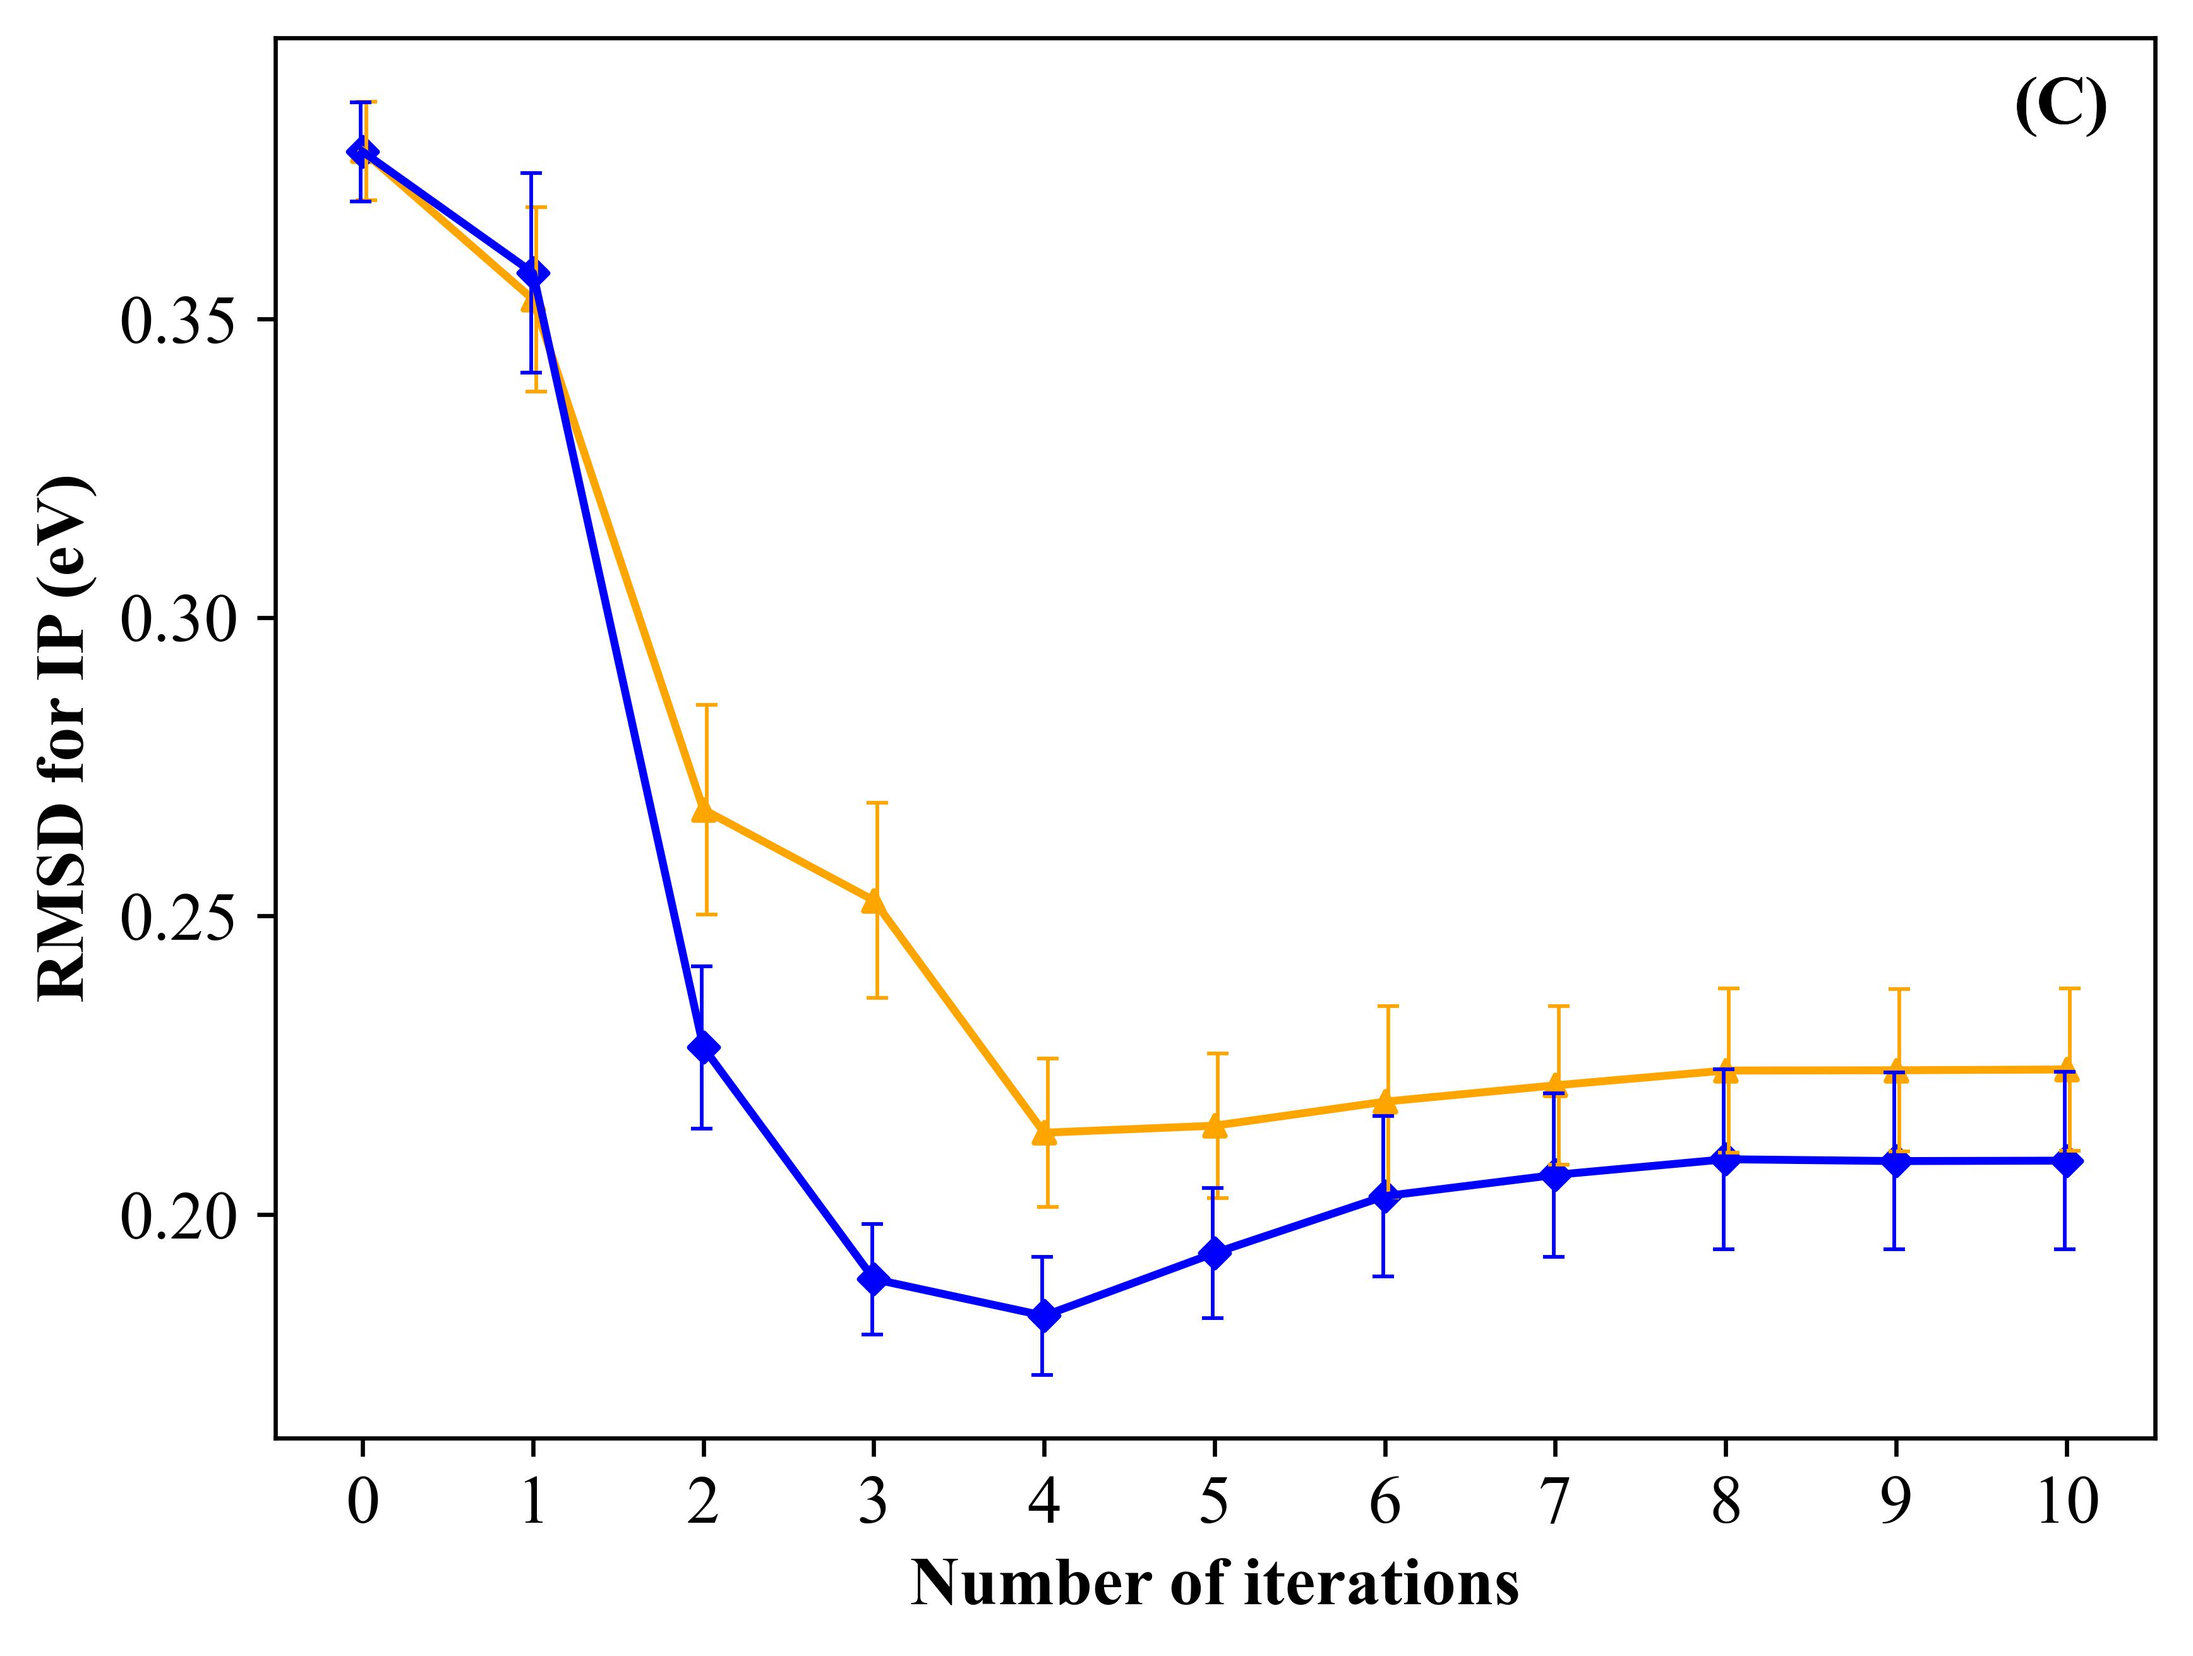
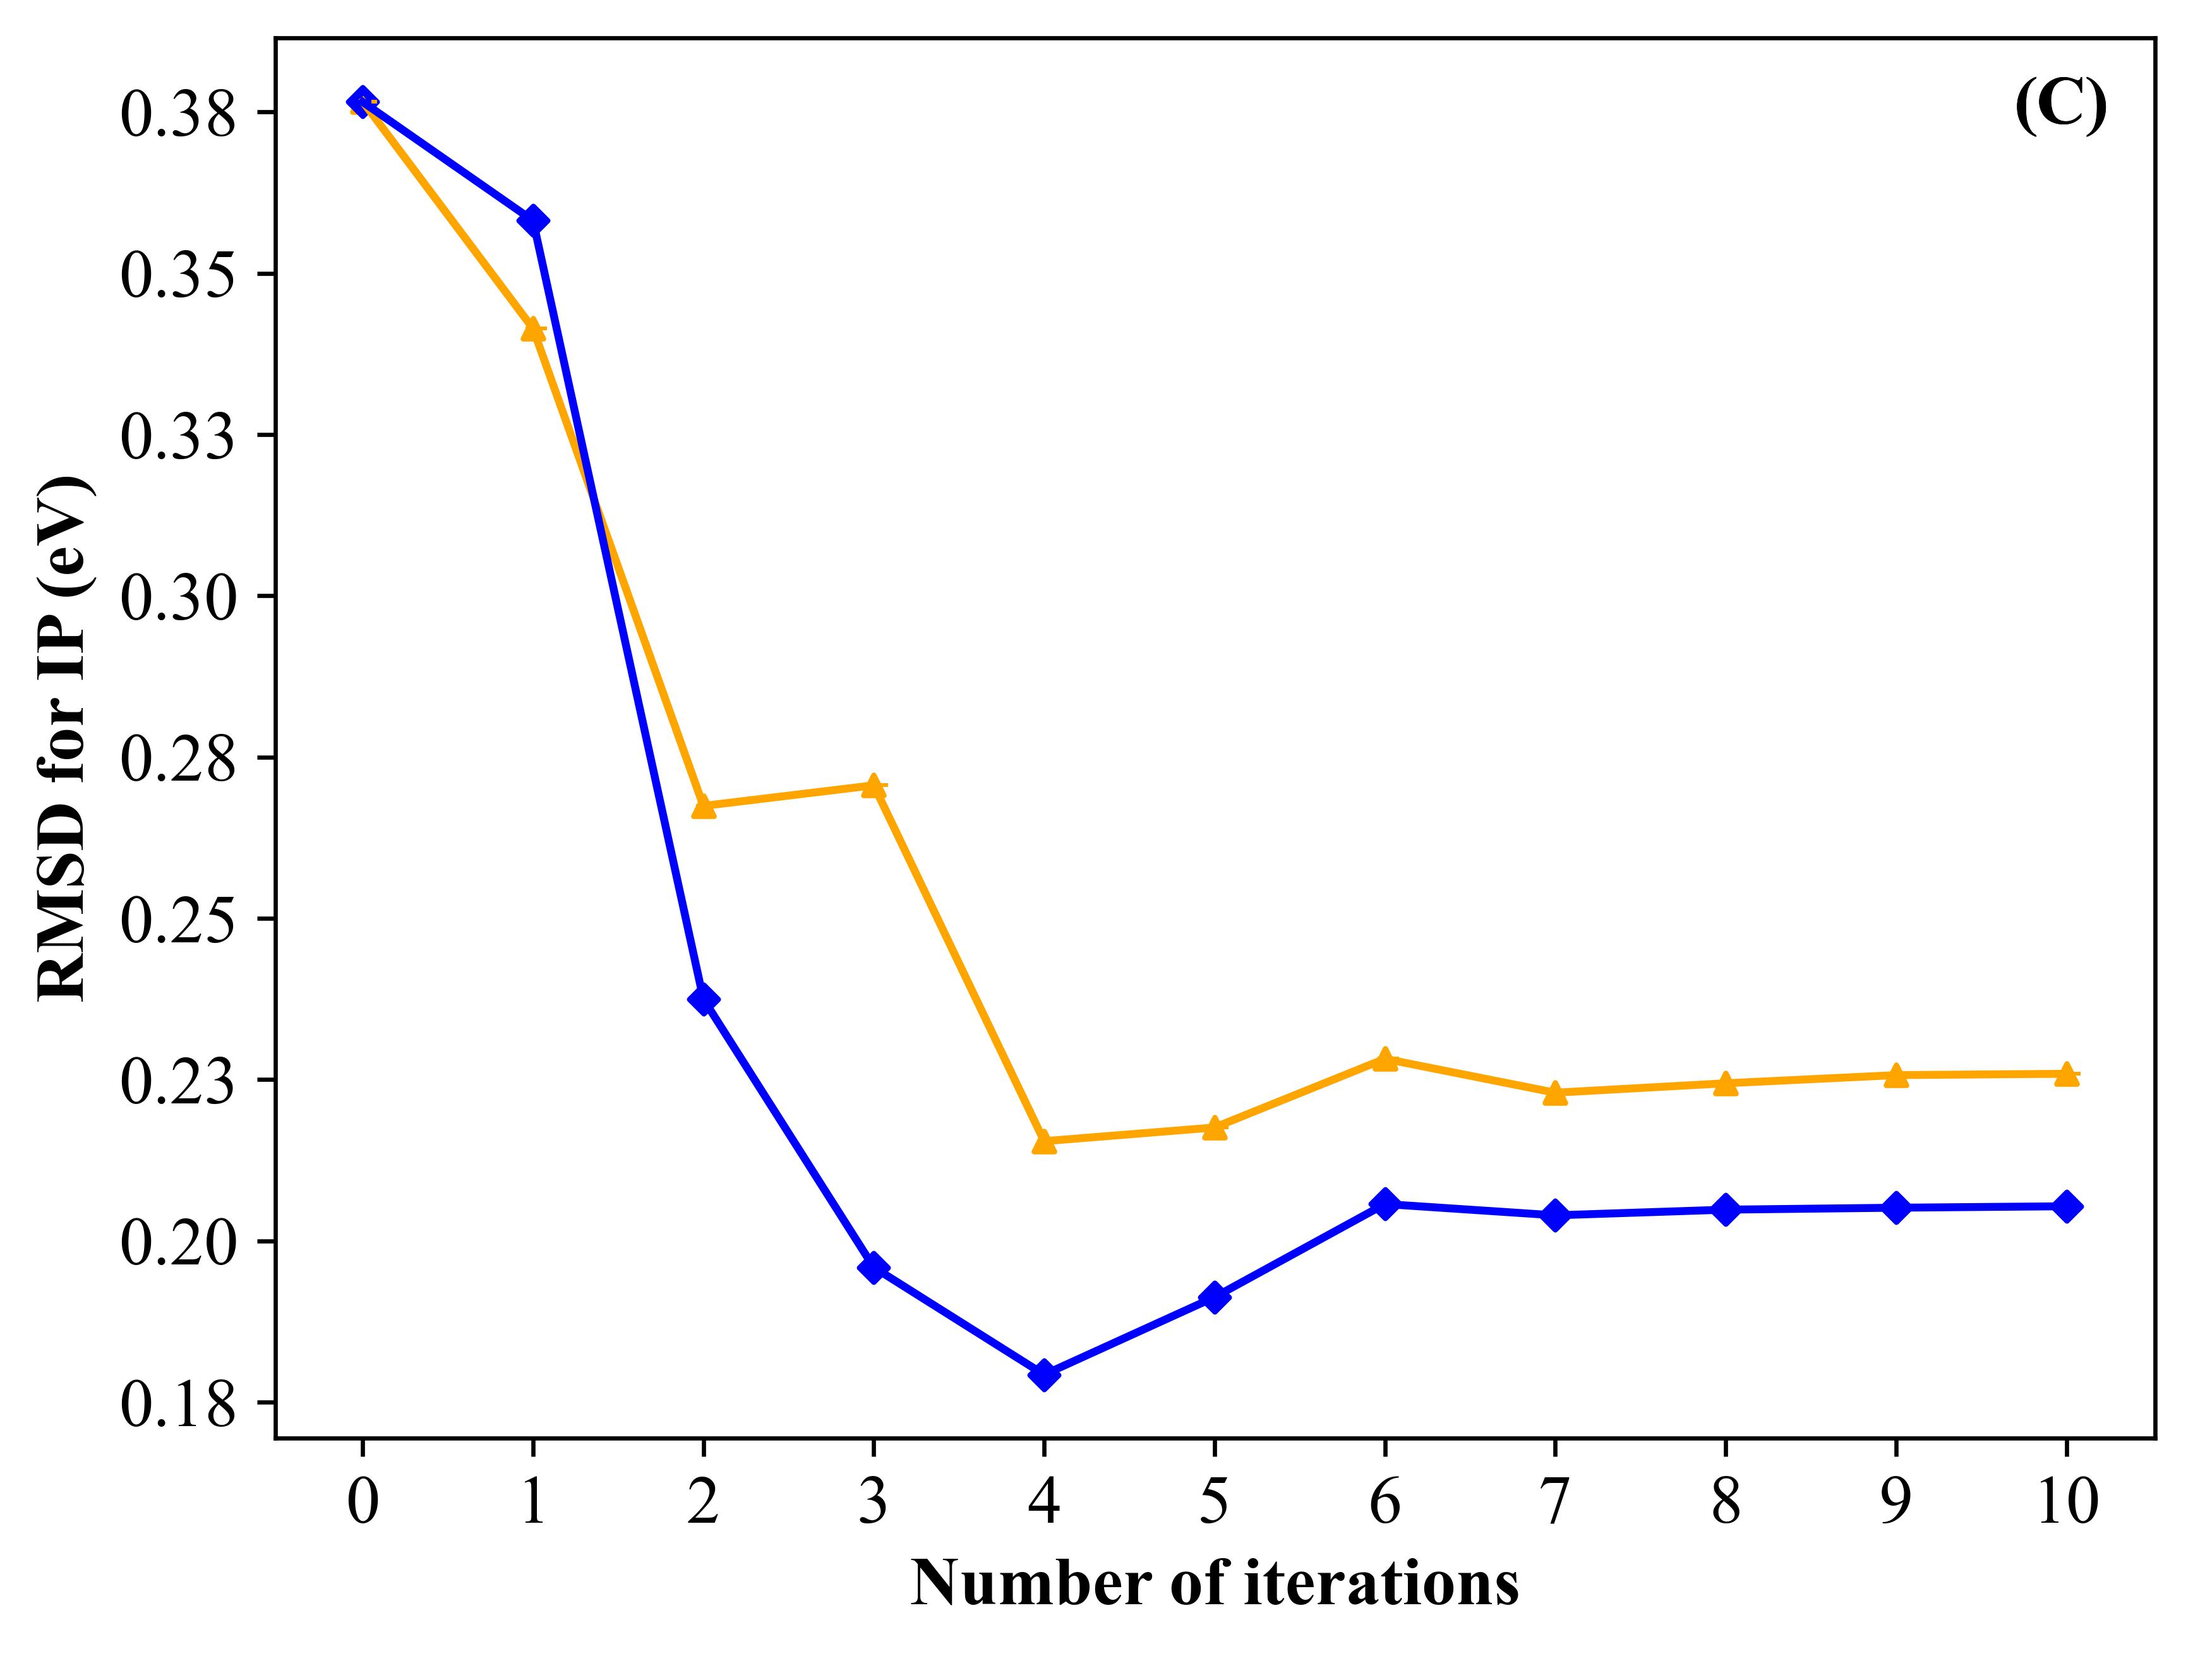
null

diff --git a/experiments/plot_active_learning.py b/experiments/plot_active_learning.py
@@ -11,7 +11,7 @@ import pickle
 
 from utils.plot_utility_v3 import scatter_plot, font_legend, annotate
 
-data = "mixed"
+data = "subst"
 kernel_str = "edge"
 #for data in ["mixed","pah","subst"]:
 with open("\\".join(path) + "\\experiments_active_learning_"+kernel_str+"_"+ data+".pkl","rb") as handle:
@@ -21,7 +21,8 @@ with open("\\".join(path) + "\\experiments_active_learning_"+kernel_str+"_"+ dat
 start = 0
 if data == "subst":
     if kernel_str == "edge":
-        start = 15 #108
+        #start = 15 #108
+        start = 0 #108
 elif data == "mixed":
     if kernel_str == "edge":
         #start = 32 #261

diff --git a/experiments/plot_vs_radius.py b/experiments/plot_vs_radius.py
@@ -13,9 +13,9 @@ from utils.plot_utility_v3 import scatter_plot, font_legend, annotate
 
 #for data in ["mixed","pah","subst"]:
 
-data = "subst"
+data = "mixed"
 #num_iters = list(range(0,11,1))
-num_iters = list(range(0,7,1))
+num_iters = list(range(0,11,1))
 
 with open("\\".join(path) + "\\vs_ecfp_radius_"+ data+".pkl","rb") as handle:
     result = pickle.load(handle)

diff --git a/active_pipeline.py b/active_pipeline.py
@@ -122,8 +122,9 @@ def active_learning_pkl(kernel_str, data_type, repeat):
             pass
         elif kernel_str == "edge":
             #initial_split = 0.64
-            #steps = 7
-            num_iter = [0,1,2]
+            steps = 28
+            loops = 16
+            num_iter = [1,2]
 
     elif data_type == "pah":
         loops = 30
